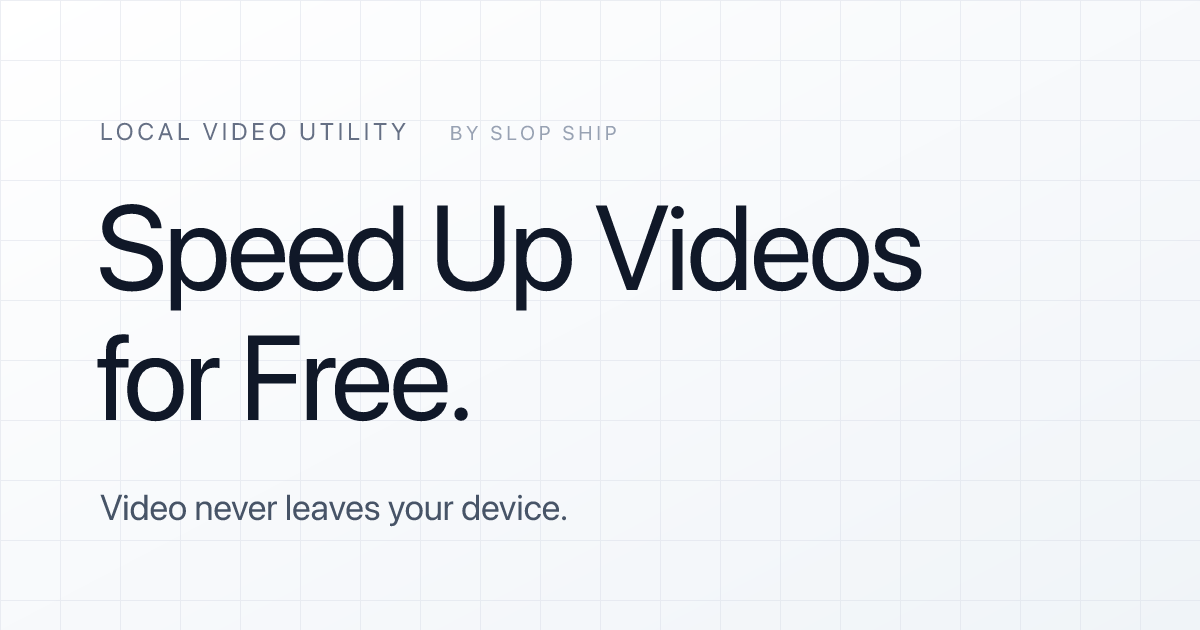
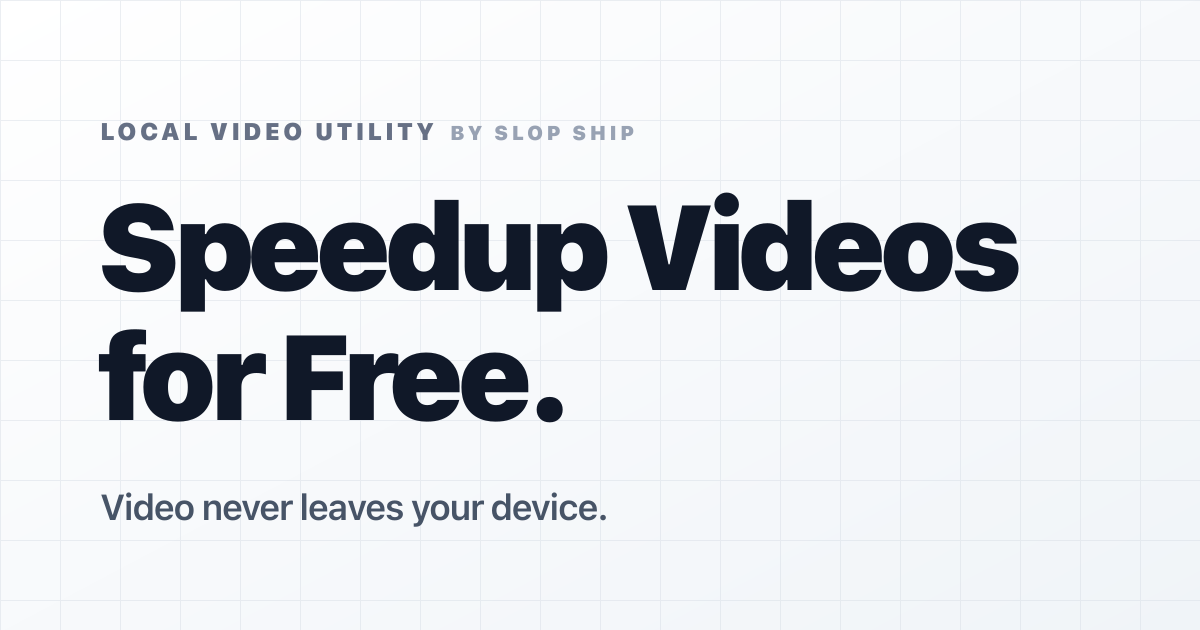
remove emojis from use cases, regenerate OG image PNG

diff --git a/index.html b/index.html
@@ -502,10 +502,6 @@
             padding: 24px;
         }
 
-        .use-case-icon {
-            font-size: 1.6rem;
-            margin-bottom: 8px;
-        }
 
         .use-case-card h3 {
             margin: 0 0 6px;
@@ -654,24 +650,20 @@
             <h2 class="use-cases-title">What People Use This For</h2>
             <div class="use-cases-grid">
                 <div class="use-case-card">
-                    <div class="use-case-icon">🖥</div>
                     <h3>Screen Recordings</h3>
                     <p>Got a 30-minute screen recording? Turn it into a snappy 3-minute timelapse. Perfect for dev logs, tutorials, or sharing your workflow.</p>
                 </div>
                 <div class="use-case-card">
-                    <div class="use-case-icon">🏗</div>
-                    <h3>Build & Project Timelapses</h3>
+                    <h3>Build &amp; Project Timelapses</h3>
                     <p>Set up a camera, record for hours, then speedup the footage into a satisfying before-and-after clip for social media.</p>
                 </div>
                 <div class="use-case-card">
-                    <div class="use-case-icon">🎮</div>
-                    <h3>Gaming & Gameplay</h3>
+                    <h3>Gaming &amp; Gameplay</h3>
                     <p>Condense long gaming sessions into quick highlight reels. Show off an entire Minecraft build or strategy game in under a minute.</p>
                 </div>
                 <div class="use-case-card">
-                    <div class="use-case-icon">📱</div>
                     <h3>Social Media Clips</h3>
-                    <p>Speed up cooking, art, or crafting videos for TikTok and Reels. Drop a file, pick your speed, and you're done — no app install needed.</p>
+                    <p>Speedup cooking, art, or crafting videos for TikTok and Reels. Drop a file, pick your speed, and you're done — no app install needed.</p>
                 </div>
             </div>
         </section>
